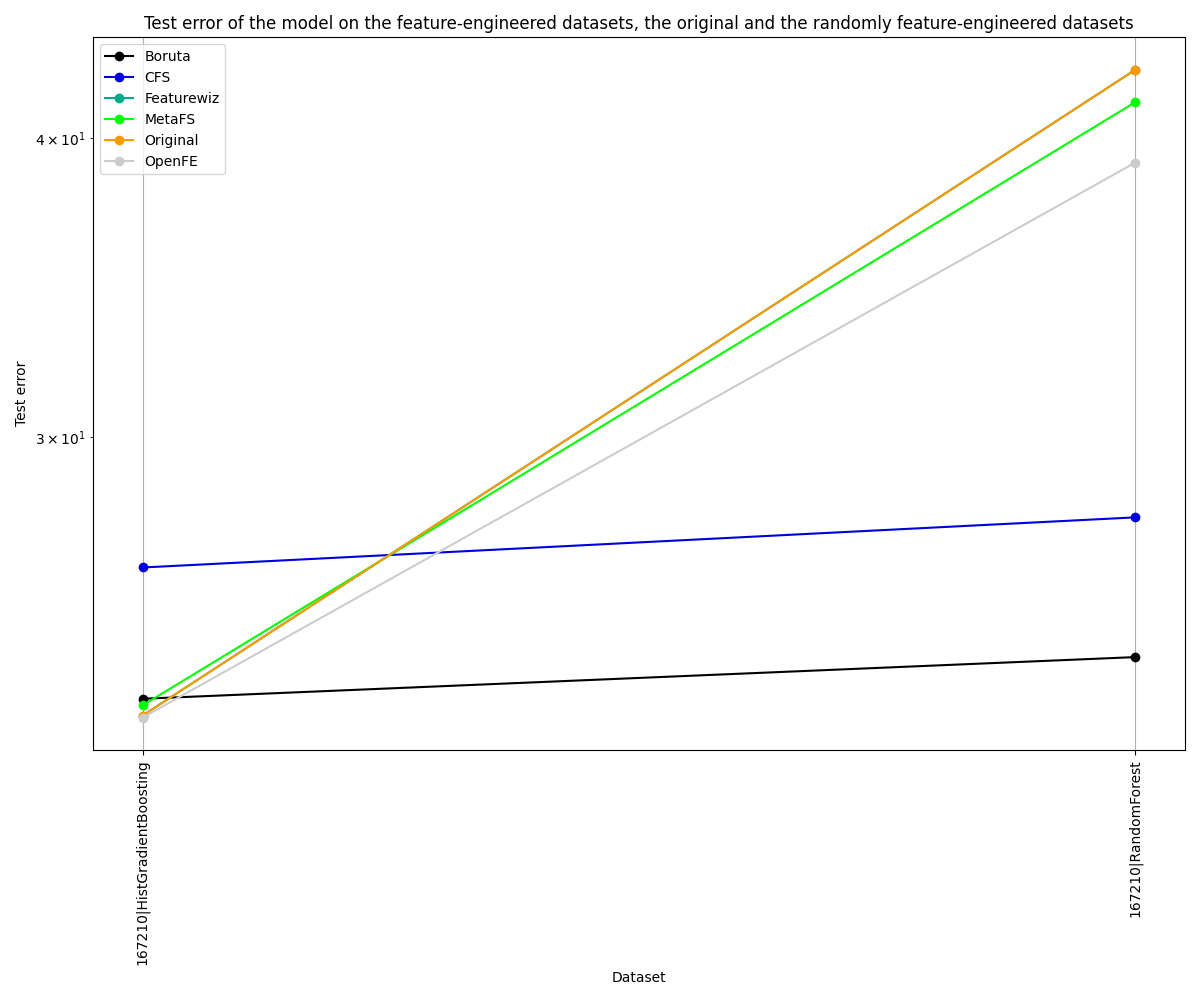
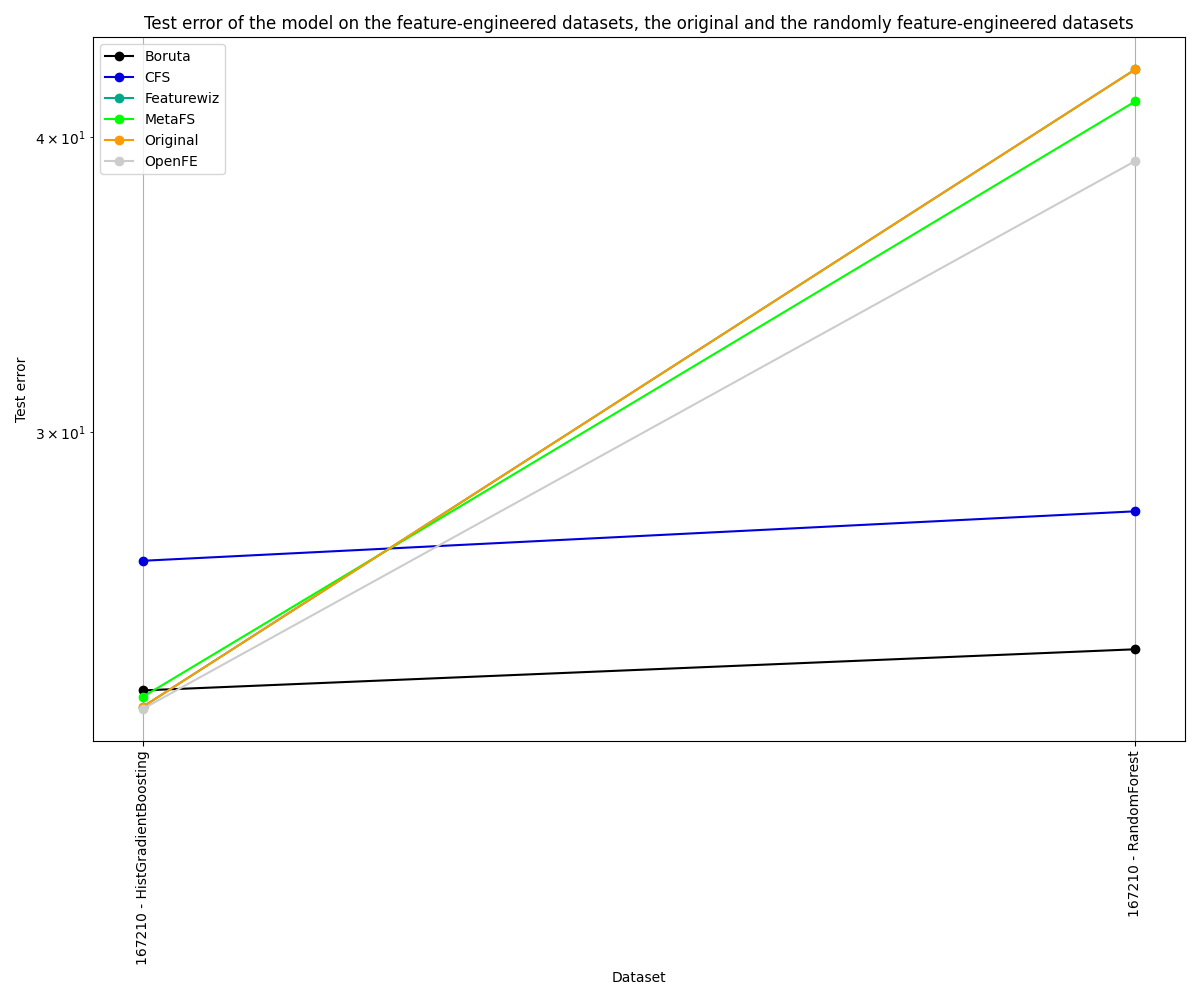
Change separator model and dataset

diff --git a/src/results/analysis/analysis.py b/src/results/analysis/analysis.py
@@ -65,7 +65,7 @@ def separate_by_score_and_pivot(df_grouped):
 
         # Create instance identifier (dataset|model)
         df_score["instance"] = df_score.apply(
-            lambda row: f"{row['dataset']}|{row['model']}",
+            lambda row: f"{row['dataset']} - {row['model']}",
             axis=1
         )
 
@@ -93,7 +93,7 @@ def separate_by_score_and_pivot(df_grouped):
         datasets = df_pivot_val.index.astype(str)
         dataset_list = []
         for dataset in datasets.tolist():
-            parts = dataset.split('|')
+            parts = dataset.split(' - ')
             dataset_id = int(parts[0])
             model_name = parts[1]
 
